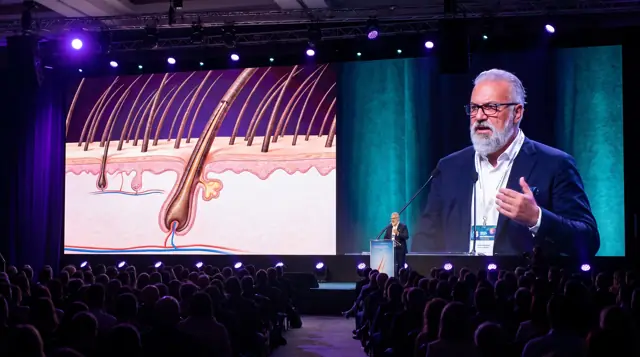
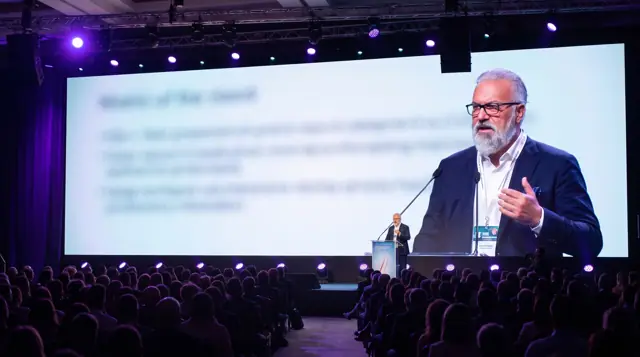
Hero: keep the H1 as an eyebrow under a new editorial headline; soften keynote screen
The SEO H1 'The Best Hair Transplant Clinic in Greece and Cyprus' now sits
as a small eyebrow, with the display headline 'Restored by the hands that
teach the world FUE.' beneath it. The keynote image behind the authority
card now shows a blurred, out-of-focus slide instead of a detailed one.

Claude-Session: https://claude.ai/code/session_01PZoJRzLx97asAWzUXj6cnJ

diff --git a/assets/css/style.css b/assets/css/style.css
@@ -287,6 +287,16 @@ ul, ol { padding: 0; list-style: none; }
   line-height: 1;
   letter-spacing: -0.04em;
 }
+.hero-eyebrow {
+  display: flex; align-items: center; gap: 14px;
+  margin-bottom: 22px;
+  font-family: var(--sans); font-weight: 700; font-size: clamp(15px, 1.2vw, 18px);
+  letter-spacing: .01em; line-height: 1.35; color: var(--teal-soft);
+  opacity: 0; transform: translateY(10px);
+  transition: opacity .8s var(--ease), transform .8s var(--ease);
+}
+.hero-eyebrow::before { content: ""; flex: none; width: 40px; height: 2px; border-radius: 2px; background: var(--teal); }
+.is-loaded .hero-eyebrow { opacity: 1; transform: none; }
 .hero-title .line { display: block; overflow: hidden; padding-bottom: .06em; }
 .hero-title .line > span { display: inline-block; transform: translateY(105%); transition: transform 1.1s var(--ease); }
 .hero-title .line:nth-child(2) > span { transition-delay: .12s; }

diff --git a/index.html b/index.html
@@ -123,11 +123,12 @@
   <div class="hero-shade" aria-hidden="true"></div>
 
   <div class="hero-content">
-    <h1 class="hero-title">
-      <span class="line"><span>The Best Hair</span></span>
-      <span class="line"><span>Transplant Clinic</span></span>
-      <span class="line"><span>in Greece and Cyprus</span></span>
-    </h1>
+    <h1 class="hero-eyebrow">The Best Hair Transplant Clinic in Greece and Cyprus</h1>
+    <p class="hero-title">
+      <span class="line"><span>Restored by</span></span>
+      <span class="line"><span>the hands that</span></span>
+      <span class="line"><span>teach the world FUE.</span></span>
+    </p>
     <svg class="hairline hero-hairline" viewBox="0 0 600 4" preserveAspectRatio="none" aria-hidden="true">
       <path d="M2 2 H598"/>
     </svg>
